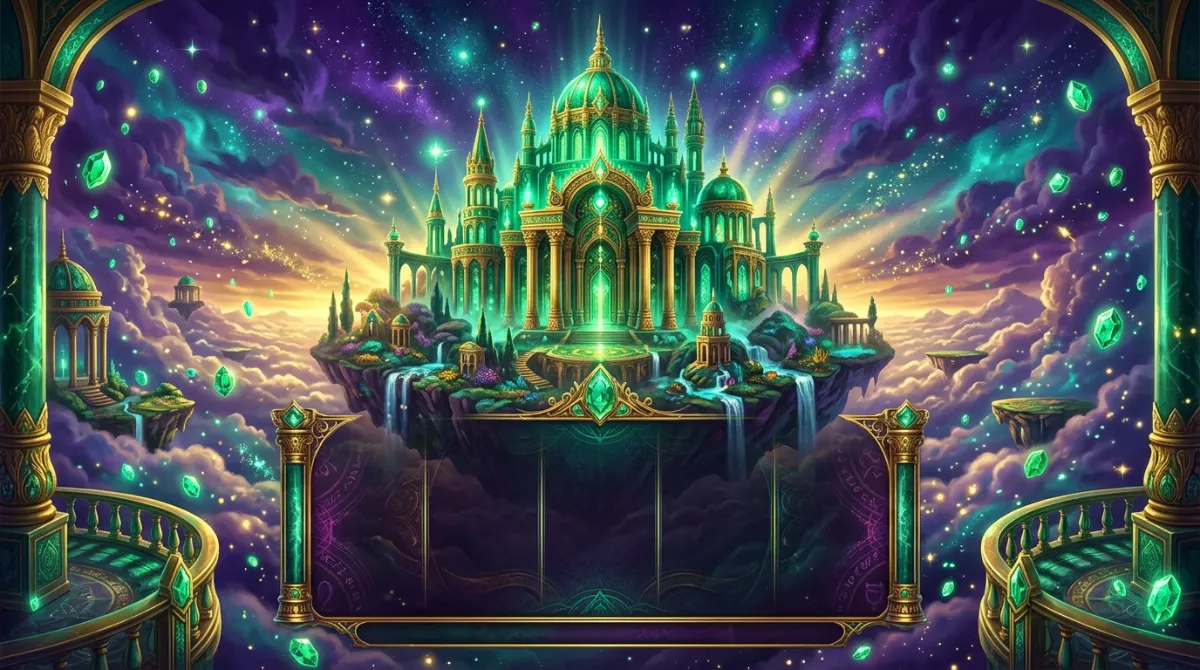
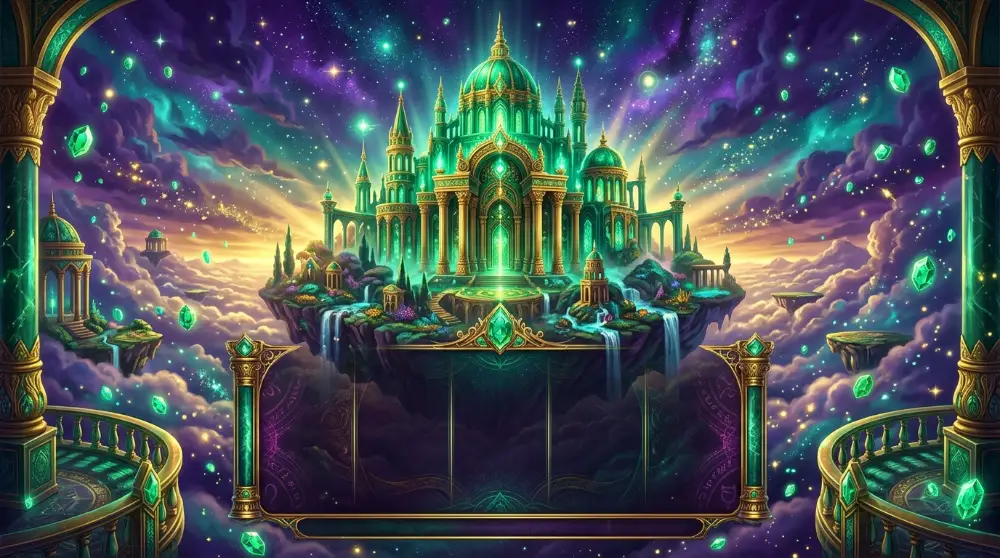
Slot: siluet simbol per tingkat, hentakan gulungan, halo simbol langka, latar bergerak ringan + versi potret hemat; cache /img 7 hari
Claude-Session: https://claude.ai/code/session_01NBrW7187ghFyXrddVCxUfE

diff --git a/frontend/src/components/games/symbols.tsx b/frontend/src/components/games/symbols.tsx
@@ -11,6 +11,9 @@ const SKIN: Record<string, { a: string; b: string; glow: string }> = {
   SEVEN: { a: "#f87171", b: "#7f1d1d", glow: "#ef4444" },
 };
 
+/** Siluet menurut tingkat nilai: rendah = kotak membulat, menengah = bulat, tinggi = segi delapan bermahkota. */
+export const symbolTier = (id: string): "low" | "mid" | "high" => (["STAR", "DIAMOND", "SEVEN"].includes(id) ? "high" : ["BELL", "CLOVER"].includes(id) ? "mid" : "low");
+
 function Glyph({ id }: { id: string }) {
   switch (id) {
     case "CHERRY":
@@ -66,6 +69,7 @@ function Glyph({ id }: { id: string }) {
 
 export function SymbolIcon({ id, size = 72 }: { id: string; size?: number }) {
   const uid = useId().replace(/:/g, "");
+  const tier = symbolTier(id);
   const k = SKIN[id] ?? { a: "#94a3b8", b: "#334155", glow: "#94a3b8" };
   return (
     <svg width={size} height={size} viewBox="0 0 64 64" role="img" aria-label={id.toLowerCase()} style={{ filter: `drop-shadow(0 2px 6px ${k.glow}66)` }}>
@@ -74,10 +78,23 @@ export function SymbolIcon({ id, size = 72 }: { id: string; size?: number }) {
         <linearGradient id={`${uid}r`} x1="0" y1="0" x2="1" y2="1"><stop offset="0" stopColor="#fef3c7" /><stop offset=".45" stopColor="#f59e0b" /><stop offset="1" stopColor="#78350f" /></linearGradient>
         <linearGradient id={`${uid}s`} x1="0" y1="0" x2="0" y2="1"><stop offset="0" stopColor="#fff" stopOpacity=".55" /><stop offset="1" stopColor="#fff" stopOpacity="0" /></linearGradient>
       </defs>
-      <rect x="3" y="3" width="58" height="58" rx="17" fill={`url(#${uid}r)`} />
-      <rect x="6.500" y="6.500" width="51" height="51" rx="14" fill={`url(#${uid}g)`} />
+      {tier === "low" && (<>
+        <rect x="3" y="3" width="58" height="58" rx="17" fill={`url(#${uid}r)`} />
+        <rect x="6.500" y="6.500" width="51" height="51" rx="14" fill={`url(#${uid}g)`} />
+      </>)}
+      {tier === "mid" && (<>
+        <circle cx="32" cy="32" r="30" fill={`url(#${uid}r)`} />
+        <circle cx="32" cy="32" r="26.500" fill={`url(#${uid}g)`} />
+      </>)}
+      {tier === "high" && (<>
+        <path d="M32 0.500 38 6h9l5 5v9l5.500 6-5.500 6v9l-5 5h-9L32 63.500 26 58h-9l-5-5v-9L6.500 38 12 32v-9l5-5h9Z" fill="#fde68a" opacity=".55" transform="translate(0 0) scale(1)" />
+        <path d="M21 3h22l18 18v22L43 61H21L3 43V21Z" fill={`url(#${uid}r)`} />
+        <path d="M23 7h18l16 16v18L41 57H23L7 41V23Z" fill={`url(#${uid}g)`} />
+      </>)}
       <Glyph id={id} />
-      <path d="M10 24C10 14 17 9 28 9h8c-9 2-19 6-26 15Z" fill={`url(#${uid}s)`} />
+      {tier === "low" && <path d="M10 24C10 14 17 9 28 9h8c-9 2-19 6-26 15Z" fill={`url(#${uid}s)`} />}
+      {tier === "mid" && <ellipse cx="25" cy="15" rx="14" ry="6.500" transform="rotate(-18 25 15)" fill={`url(#${uid}s)`} />}
+      {tier === "high" && <path d="M23 7h18l10 10H13Z" fill={`url(#${uid}s)`} />}
     </svg>
   );
 }

diff --git a/frontend/src/components/games/SlotsGame.tsx b/frontend/src/components/games/SlotsGame.tsx
@@ -5,6 +5,7 @@ import { useI18n } from "../../i18n";
 import { useMotion } from "../../lib/hooks";
 import { GameResultModal } from "../GameResultModal";
 import { SymbolIcon } from "./art";
+import { symbolTier } from "./symbols";
 import { WinFx } from "./WinFx";
 import { signed } from "../../lib/outcome";
 import { BalanceBar, StakePicker, useRound, wait, type GameProps } from "./shared";
@@ -14,6 +15,7 @@ const FILLER = 14;
 
 function Reel({ symbols, target, spinning, delay, win, motionOn }: { symbols: string[]; target: string; spinning: number; delay: number; win: boolean; motionOn: boolean }) {
   const controls = useAnimationControls();
+  const [thud, setThud] = useState(0);
   const [strip, setStrip] = useState<string[]>([target]);
   // Strip acak (murni visual) yang berakhir di simbol hasil dari server.
   useEffect(() => {
@@ -25,13 +27,13 @@ function Reel({ symbols, target, spinning, delay, win, motionOn }: { symbols: st
     if (strip.length < 2) return;
     controls.set({ y: 0 });
     const end = -(strip.length - 1) * CELL;
-    if (motionOn) void controls.start({ y: end, transition: { duration: 1.1 + delay, ease: [0.2, 0.7, 0.2, 1] } });
+    if (motionOn) void controls.start({ y: end, transition: { duration: 1.1 + delay, ease: [0.2, 0.7, 0.2, 1] } }).then(() => setThud((x) => x + 1));
     else controls.set({ y: end });
   }, [strip]); // eslint-disable-line react-hooks/exhaustive-deps
   return (
-    <div className={`reel ${win ? "reel-win" : ""}`} role="img" aria-label={target}>
+    <div className={`reel ${win ? "reel-win" : ""} ${thud && motionOn ? (thud % 2 ? "reel-thud-a" : "reel-thud-b") : ""}`} role="img" aria-label={target}>
       <motion.div className="reel-strip" animate={controls} initial={{ y: 0 }}>
-        {strip.map((s, i) => <div key={i} className="reel-cell"><SymbolIcon id={s} size={92} /></div>)}
+        {strip.map((s, i) => <div key={i} className={`reel-cell ${symbolTier(s) === "high" ? "rare" : ""}`}><SymbolIcon id={s} size={92} /></div>)}
       </motion.div>
     </div>
   );
@@ -95,6 +97,10 @@ export default function SlotsGame({ game }: GameProps) {
     <div className="grid gap-4">
       <BalanceBar />
       <div className="slot-machine">
+        <picture className="slot-bgfx" aria-hidden="true">
+          <source media="(max-width: 640px)" srcSet="/img/slot-bg-portrait.webp" />
+          <img src="/img/slot-bg.webp" alt="" width={1000} height={558} decoding="async" />
+        </picture>
         <div className="slot-title" aria-hidden="true"><SymbolIcon id="DIAMOND" size={20} />{t("slots.title")}<SymbolIcon id="DIAMOND" size={20} /></div>
         <div className={`slot-reels ${win ? "is-win" : ""}`}>
           <div className="slot-payline" aria-hidden="true" />

diff --git a/frontend/src/index.css b/frontend/src/index.css
@@ -262,3 +262,19 @@ html, body { overflow-x: clip; }
 .slot-machine .text-muted, .game-stage .text-muted { color: hsl(210 20% 82%); }
 .slot-machine .num, .game-stage .num { color: #fff; }
 .slot-machine .bg-surface-2 { background: hsl(0 0% 0% / .45); }
+
+/* ===== Slot: latar bergerak ringan, hentakan, halo simbol langka (hanya transform/opacity) ===== */
+.slot-machine { background: radial-gradient(70% 55% at 50% 0%, hsl(155 70% 30% / .35), transparent 70%), hsl(224 45% 8%); }
+.slot-bgfx { position: absolute; inset: 0; z-index: -2; overflow: hidden; border-radius: inherit; pointer-events: none; }
+.slot-bgfx img { width: 100%; height: 100%; object-fit: cover; transform-origin: 50% 40%; animation: bgDrift 26s ease-in-out infinite alternate; will-change: transform; }
+.slot-bgfx::after { content: ""; position: absolute; inset: 0; background: linear-gradient(180deg, hsl(224 45% 8% / .5), hsl(224 45% 6% / .8)); }
+@keyframes bgDrift { from { transform: scale(1.02) translate3d(0, 0, 0) } to { transform: scale(1.1) translate3d(-1.5%, -1%, 0) } }
+.reel-thud-a, .reel-thud-b { animation: reelThud .22s ease-out; }
+.reel-thud-a { animation-name: reelThud; } .reel-thud-b { animation-name: reelThud2; }
+@keyframes reelThud { 0% { transform: translateY(0) } 35% { transform: translateY(3px) } 100% { transform: translateY(0) } }
+@keyframes reelThud2 { 0% { transform: translateY(0) } 35% { transform: translateY(3px) } 100% { transform: translateY(0) } }
+.reel-cell.rare { position: relative; }
+.reel-cell.rare::before { content: ""; position: absolute; width: 74%; aspect-ratio: 1; border-radius: 50%; background: radial-gradient(circle, hsl(43 96% 60% / .5), transparent 68%); animation: haloPulse 2.8s ease-in-out infinite; pointer-events: none; }
+.reel-cell.rare svg { position: relative; }
+@keyframes haloPulse { 0%, 100% { opacity: .25; transform: scale(.9) } 50% { opacity: .9; transform: scale(1.08) } }
+@media (prefers-reduced-motion: reduce) { .slot-bgfx img, .reel-thud-a, .reel-thud-b, .reel-cell.rare::before { animation: none; } }
